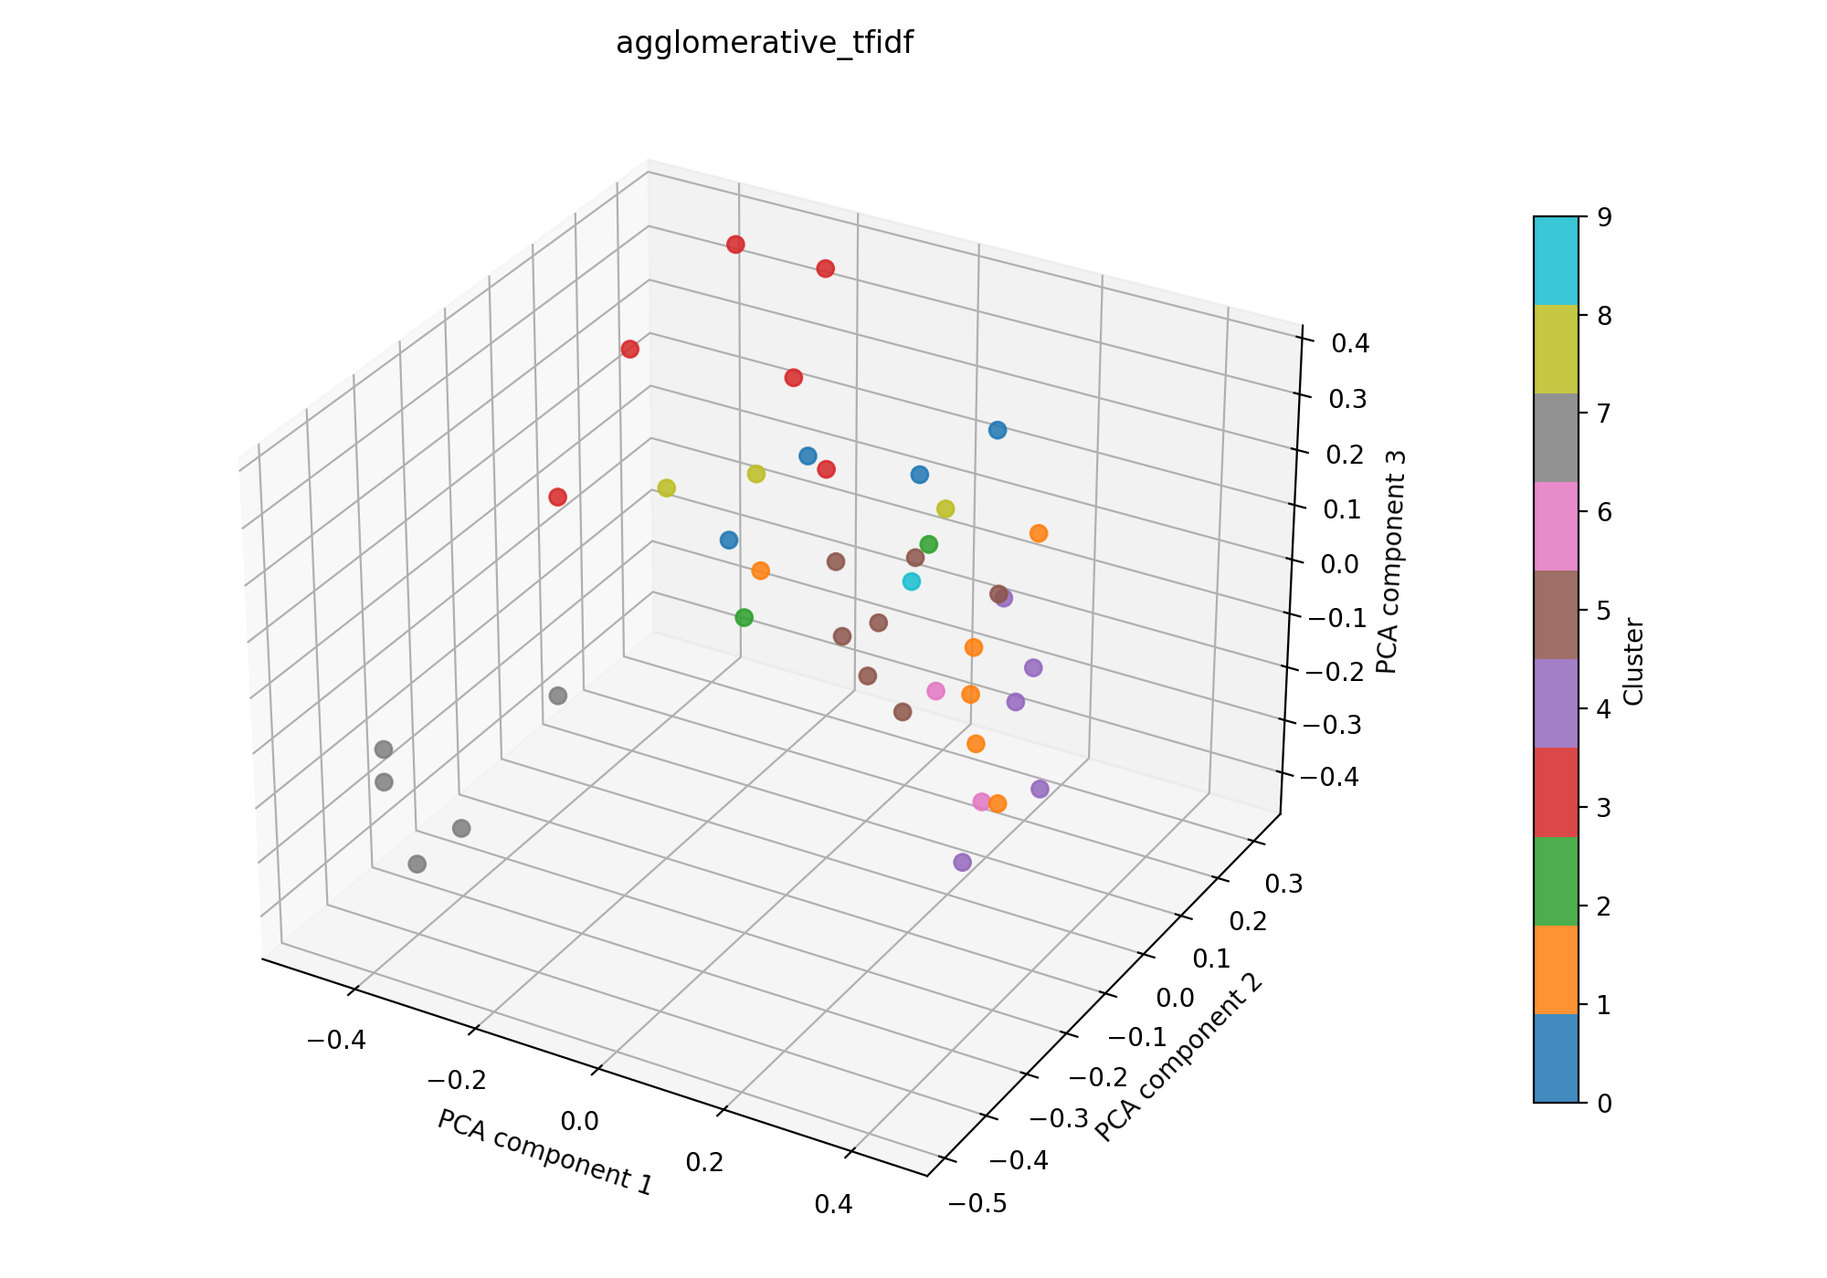
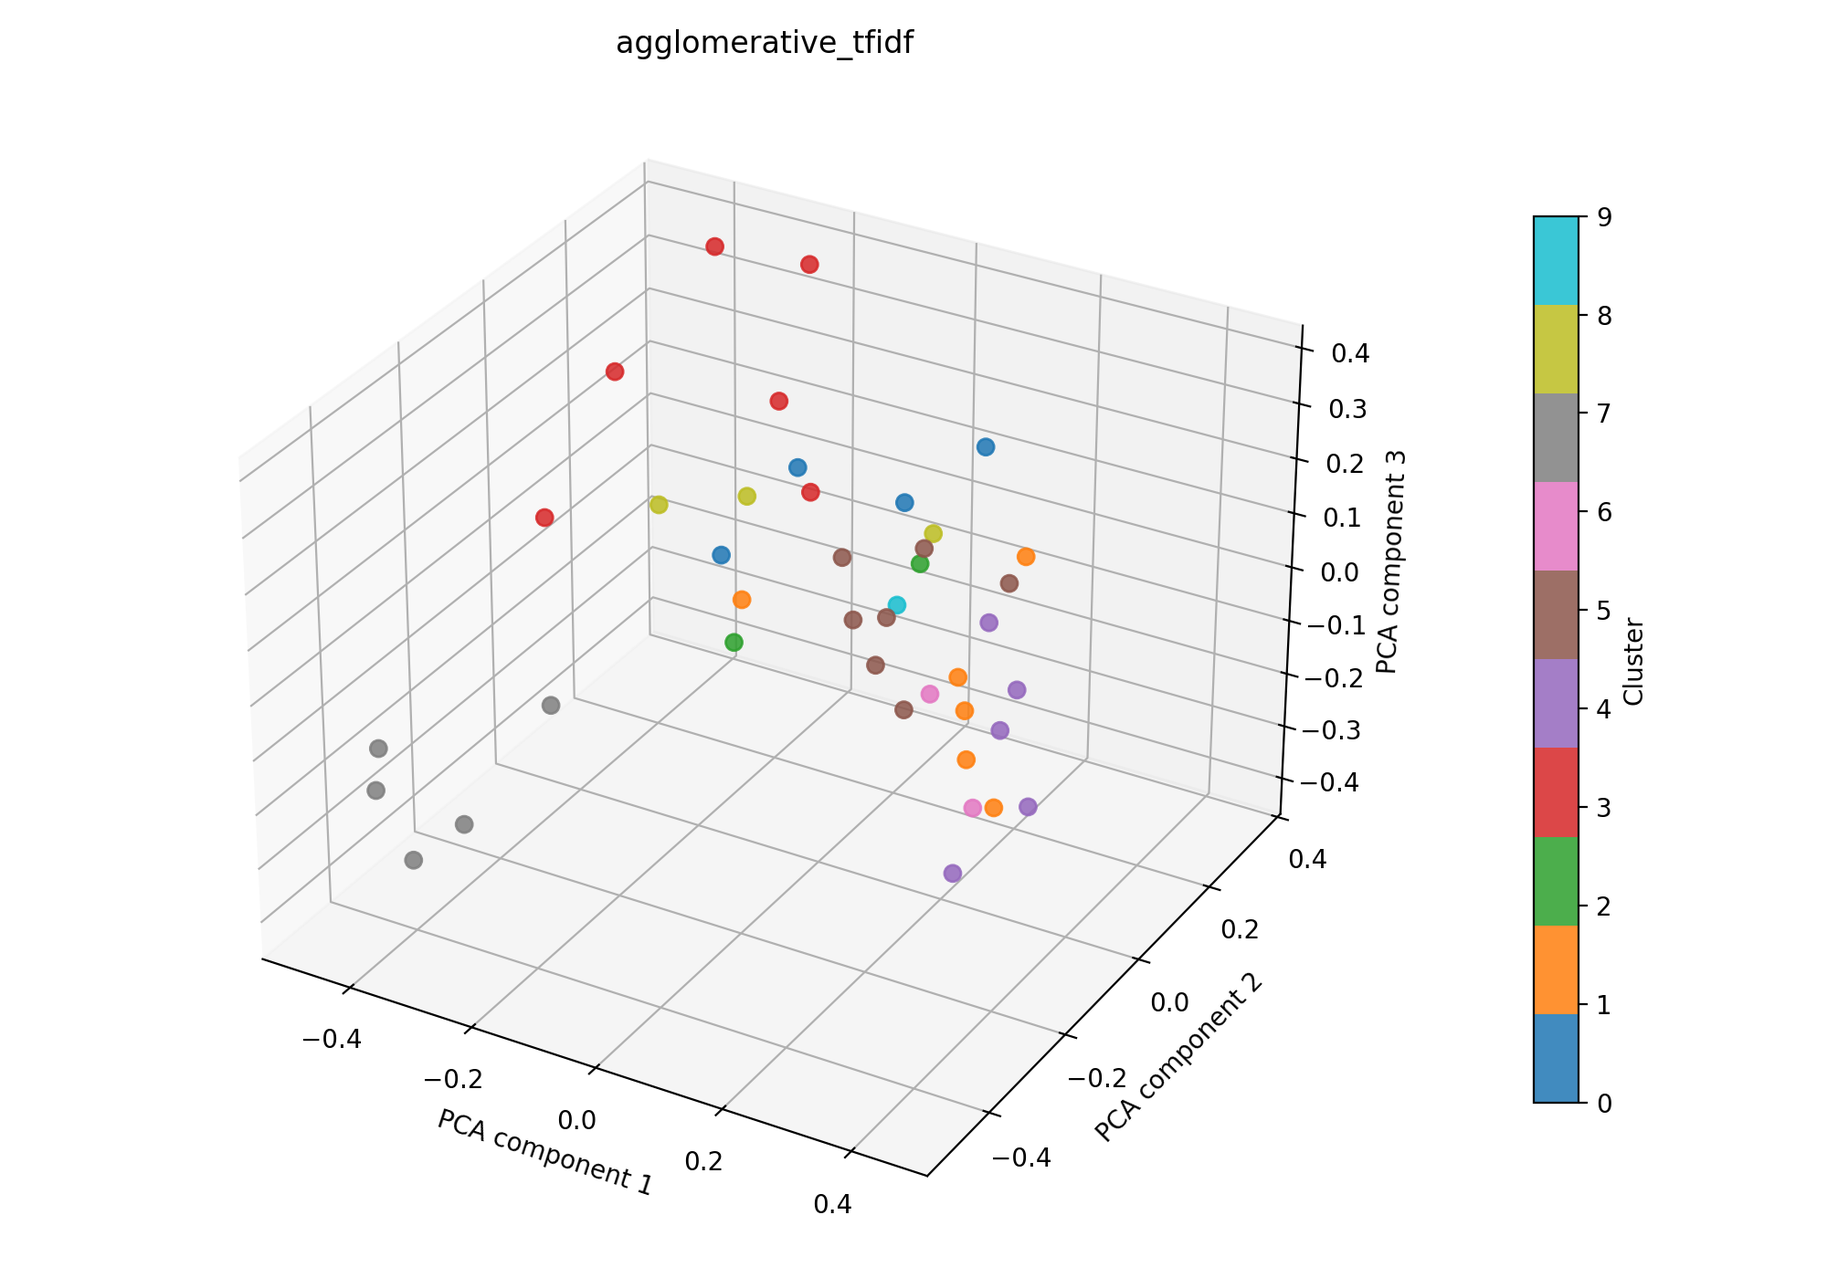
docs: updat e agglomeration und dbscan 41

diff --git a/experiments/agglomerative_tfidf/results_41/agglomerative_tfidf_pca.html b/experiments/agglomerative_tfidf/results_41/agglomerative_tfidf_pca.html
@@ -2,6 +2,6 @@
 <head><meta charset="utf-8" /></head>
 <body>
     <div>                        <script>window.PlotlyConfig = {MathJaxConfig: 'local'};</script>
-        <script charset="utf-8" src="https://cdn.plot.ly/plotly-3.4.0.min.js" integrity="sha256-KEmPoupLpFyGMyGAiOsiNDbKDKAvxXAn/W+oQa0ZAfk=" crossorigin="anonymous"></script>                <div id="db6fc630-6696-4915-b50a-3c877f6b4cdb" class="plotly-graph-div" style="height:100%; width:100%;"></div>            <script>                window.PLOTLYENV=window.PLOTLYENV || {};                                if (document.getElementById("db6fc630-6696-4915-b50a-3c877f6b4cdb")) {                    Plotly.newPlot(                        "db6fc630-6696-4915-b50a-3c877f6b4cdb",                        [{"marker":{"color":["#FFA15A","#AB63FA","#EF553B","#FFA15A","#AB63FA","#00CC96","#19D3F3","#FF97FF","#FFA15A","#FF6692","#EF553B","#FECB52","#AB63FA","#19D3F3","#636EFA","#FFA15A","#FF97FF","#19D3F3","#AB63FA","#FF97FF","#00CC96","#636EFA","#FF6692","#B6E880","#19D3F3","#AB63FA","#636EFA","#FFA15A","#19D3F3","#B6E880","#B6E880","#EF553B","#B6E880","#636EFA","#B6E880","#EF553B","#EF553B","#19D3F3","#AB63FA","#EF553B","#19D3F3"],"opacity":0.85,"size":6},"mode":"markers","x":{"dtype":"f4","bdata":"c\u002feJPmZiu77IPWo+DGcOPl+23b4is9A9jD+BPgbLVz2ipjI+t5c4PpS7oj6qsZY8CBPlvnVZij6xAl+8vzQpPthvHr4N8o0+s7RRvuWIeL5itgO+iNfCvVzKZT5EkqO+fIXlPh1XFb4wjw++7\u002f9cPjh5jD6\u002fofm+wunhvhyvdr5PRoS+zJT1Pd0Pxr6fyCc+xPS8PQJypj5d3VC+jmNPPq2eSD4="},"y":{"dtype":"f4","bdata":"lTwBPl0Qoj6LIcA7+EhuPoZUHj4YC8M92ZFNvh79Wz5WYFk+Em2zu70Cgr3P1zs+tbnJufIDv75knIA+IuSLPhGWaD0svqW+LjiaPnUF97ygqzy8it7APcNiPz0RUjq+jeKQvmZ5XT7Ezfi86k1UPIXilr5l1bS+UN\u002fRvq8IRj71bPe+iZJ0PqvH1L4gM5A+odFsPsVxk74dc2I+miWDPchejb4="},"z":{"dtype":"f4","bdata":"iQ2wvpD4sz5BO8y9Q\u002f3LvRIUcD6Aapo9vIdyPDXVTD2KFYq+q9vQvcqWZL6nZJq93ztVPcXkiD4kro89dbN+vkMRGD5ymiw+Fg25Pn1ZGT6KZ4G9JFI0PtsmqL4yPyG+gDKtPvOUez1wP7I9cPnXvk6udj5gDoS+7ocSvpOqEr5CPTK+pkZMPo4Lqr7iSjO7ki9Tvq\u002fDuj5iuFY+h690vjCcnj4="},"type":"scatter3d"}],                        {"template":{"data":{"histogram2dcontour":[{"type":"histogram2dcontour","colorbar":{"outlinewidth":0,"ticks":""},"colorscale":[[0.0,"#0d0887"],[0.1111111111111111,"#46039f"],[0.2222222222222222,"#7201a8"],[0.3333333333333333,"#9c179e"],[0.4444444444444444,"#bd3786"],[0.5555555555555556,"#d8576b"],[0.6666666666666666,"#ed7953"],[0.7777777777777778,"#fb9f3a"],[0.8888888888888888,"#fdca26"],[1.0,"#f0f921"]]}],"choropleth":[{"type":"choropleth","colorbar":{"outlinewidth":0,"ticks":""}}],"histogram2d":[{"type":"histogram2d","colorbar":{"outlinewidth":0,"ticks":""},"colorscale":[[0.0,"#0d0887"],[0.1111111111111111,"#46039f"],[0.2222222222222222,"#7201a8"],[0.3333333333333333,"#9c179e"],[0.4444444444444444,"#bd3786"],[0.5555555555555556,"#d8576b"],[0.6666666666666666,"#ed7953"],[0.7777777777777778,"#fb9f3a"],[0.8888888888888888,"#fdca26"],[1.0,"#f0f921"]]}],"heatmap":[{"type":"heatmap","colorbar":{"outlinewidth":0,"ticks":""},"colorscale":[[0.0,"#0d0887"],[0.1111111111111111,"#46039f"],[0.2222222222222222,"#7201a8"],[0.3333333333333333,"#9c179e"],[0.4444444444444444,"#bd3786"],[0.5555555555555556,"#d8576b"],[0.6666666666666666,"#ed7953"],[0.7777777777777778,"#fb9f3a"],[0.8888888888888888,"#fdca26"],[1.0,"#f0f921"]]}],"contourcarpet":[{"type":"contourcarpet","colorbar":{"outlinewidth":0,"ticks":""}}],"contour":[{"type":"contour","colorbar":{"outlinewidth":0,"ticks":""},"colorscale":[[0.0,"#0d0887"],[0.1111111111111111,"#46039f"],[0.2222222222222222,"#7201a8"],[0.3333333333333333,"#9c179e"],[0.4444444444444444,"#bd3786"],[0.5555555555555556,"#d8576b"],[0.6666666666666666,"#ed7953"],[0.7777777777777778,"#fb9f3a"],[0.8888888888888888,"#fdca26"],[1.0,"#f0f921"]]}],"surface":[{"type":"surface","colorbar":{"outlinewidth":0,"ticks":""},"colorscale":[[0.0,"#0d0887"],[0.1111111111111111,"#46039f"],[0.2222222222222222,"#7201a8"],[0.3333333333333333,"#9c179e"],[0.4444444444444444,"#bd3786"],[0.5555555555555556,"#d8576b"],[0.6666666666666666,"#ed7953"],[0.7777777777777778,"#fb9f3a"],[0.8888888888888888,"#fdca26"],[1.0,"#f0f921"]]}],"mesh3d":[{"type":"mesh3d","colorbar":{"outlinewidth":0,"ticks":""}}],"scatter":[{"fillpattern":{"fillmode":"overlay","size":10,"solidity":0.2},"type":"scatter"}],"parcoords":[{"type":"parcoords","line":{"colorbar":{"outlinewidth":0,"ticks":""}}}],"scatterpolargl":[{"type":"scatterpolargl","marker":{"colorbar":{"outlinewidth":0,"ticks":""}}}],"bar":[{"error_x":{"color":"#2a3f5f"},"error_y":{"color":"#2a3f5f"},"marker":{"line":{"color":"#E5ECF6","width":0.5},"pattern":{"fillmode":"overlay","size":10,"solidity":0.2}},"type":"bar"}],"scattergeo":[{"type":"scattergeo","marker":{"colorbar":{"outlinewidth":0,"ticks":""}}}],"scatterpolar":[{"type":"scatterpolar","marker":{"colorbar":{"outlinewidth":0,"ticks":""}}}],"histogram":[{"marker":{"pattern":{"fillmode":"overlay","size":10,"solidity":0.2}},"type":"histogram"}],"scattergl":[{"type":"scattergl","marker":{"colorbar":{"outlinewidth":0,"ticks":""}}}],"scatter3d":[{"type":"scatter3d","line":{"colorbar":{"outlinewidth":0,"ticks":""}},"marker":{"colorbar":{"outlinewidth":0,"ticks":""}}}],"scattermap":[{"type":"scattermap","marker":{"colorbar":{"outlinewidth":0,"ticks":""}}}],"scattermapbox":[{"type":"scattermapbox","marker":{"colorbar":{"outlinewidth":0,"ticks":""}}}],"scatterternary":[{"type":"scatterternary","marker":{"colorbar":{"outlinewidth":0,"ticks":""}}}],"scattercarpet":[{"type":"scattercarpet","marker":{"colorbar":{"outlinewidth":0,"ticks":""}}}],"carpet":[{"aaxis":{"endlinecolor":"#2a3f5f","gridcolor":"white","linecolor":"white","minorgridcolor":"white","startlinecolor":"#2a3f5f"},"baxis":{"endlinecolor":"#2a3f5f","gridcolor":"white","linecolor":"white","minorgridcolor":"white","startlinecolor":"#2a3f5f"},"type":"carpet"}],"table":[{"cells":{"fill":{"color":"#EBF0F8"},"line":{"color":"white"}},"header":{"fill":{"color":"#C8D4E3"},"line":{"color":"white"}},"type":"table"}],"barpolar":[{"marker":{"line":{"color":"#E5ECF6","width":0.5},"pattern":{"fillmode":"overlay","size":10,"solidity":0.2}},"type":"barpolar"}],"pie":[{"automargin":true,"type":"pie"}]},"layout":{"autotypenumbers":"strict","colorway":["#636efa","#EF553B","#00cc96","#ab63fa","#FFA15A","#19d3f3","#FF6692","#B6E880","#FF97FF","#FECB52"],"font":{"color":"#2a3f5f"},"hovermode":"closest","hoverlabel":{"align":"left"},"paper_bgcolor":"white","plot_bgcolor":"#E5ECF6","polar":{"bgcolor":"#E5ECF6","angularaxis":{"gridcolor":"white","linecolor":"white","ticks":""},"radialaxis":{"gridcolor":"white","linecolor":"white","ticks":""}},"ternary":{"bgcolor":"#E5ECF6","aaxis":{"gridcolor":"white","linecolor":"white","ticks":""},"baxis":{"gridcolor":"white","linecolor":"white","ticks":""},"caxis":{"gridcolor":"white","linecolor":"white","ticks":""}},"coloraxis":{"colorbar":{"outlinewidth":0,"ticks":""}},"colorscale":{"sequential":[[0.0,"#0d0887"],[0.1111111111111111,"#46039f"],[0.2222222222222222,"#7201a8"],[0.3333333333333333,"#9c179e"],[0.4444444444444444,"#bd3786"],[0.5555555555555556,"#d8576b"],[0.6666666666666666,"#ed7953"],[0.7777777777777778,"#fb9f3a"],[0.8888888888888888,"#fdca26"],[1.0,"#f0f921"]],"sequentialminus":[[0.0,"#0d0887"],[0.1111111111111111,"#46039f"],[0.2222222222222222,"#7201a8"],[0.3333333333333333,"#9c179e"],[0.4444444444444444,"#bd3786"],[0.5555555555555556,"#d8576b"],[0.6666666666666666,"#ed7953"],[0.7777777777777778,"#fb9f3a"],[0.8888888888888888,"#fdca26"],[1.0,"#f0f921"]],"diverging":[[0,"#8e0152"],[0.1,"#c51b7d"],[0.2,"#de77ae"],[0.3,"#f1b6da"],[0.4,"#fde0ef"],[0.5,"#f7f7f7"],[0.6,"#e6f5d0"],[0.7,"#b8e186"],[0.8,"#7fbc41"],[0.9,"#4d9221"],[1,"#276419"]]},"xaxis":{"gridcolor":"white","linecolor":"white","ticks":"","title":{"standoff":15},"zerolinecolor":"white","automargin":true,"zerolinewidth":2},"yaxis":{"gridcolor":"white","linecolor":"white","ticks":"","title":{"standoff":15},"zerolinecolor":"white","automargin":true,"zerolinewidth":2},"scene":{"xaxis":{"backgroundcolor":"#E5ECF6","gridcolor":"white","linecolor":"white","showbackground":true,"ticks":"","zerolinecolor":"white","gridwidth":2},"yaxis":{"backgroundcolor":"#E5ECF6","gridcolor":"white","linecolor":"white","showbackground":true,"ticks":"","zerolinecolor":"white","gridwidth":2},"zaxis":{"backgroundcolor":"#E5ECF6","gridcolor":"white","linecolor":"white","showbackground":true,"ticks":"","zerolinecolor":"white","gridwidth":2}},"shapedefaults":{"line":{"color":"#2a3f5f"}},"annotationdefaults":{"arrowcolor":"#2a3f5f","arrowhead":0,"arrowwidth":1},"geo":{"bgcolor":"white","landcolor":"#E5ECF6","subunitcolor":"white","showland":true,"showlakes":true,"lakecolor":"white"},"title":{"x":0.05},"mapbox":{"style":"light"}}},"title":{"text":"agglomerative_tfidf"}},                        {"responsive": true}                    )                };            </script>        </div>
[1 lines of base64/hex data omitted]
 </body>
 </html>

diff --git a/experiments/dbscan_tfidf/results_41/dbscan_tfidf_pca.html b/experiments/dbscan_tfidf/results_41/dbscan_tfidf_pca.html
@@ -2,6 +2,6 @@
 <head><meta charset="utf-8" /></head>
 <body>
     <div>                        <script>window.PlotlyConfig = {MathJaxConfig: 'local'};</script>
-        <script charset="utf-8" src="https://cdn.plot.ly/plotly-3.4.0.min.js" integrity="sha256-KEmPoupLpFyGMyGAiOsiNDbKDKAvxXAn/W+oQa0ZAfk=" crossorigin="anonymous"></script>                <div id="e290cb47-7c95-4cb9-8534-c3cd36922ef7" class="plotly-graph-div" style="height:100%; width:100%;"></div>            <script>                window.PLOTLYENV=window.PLOTLYENV || {};                                if (document.getElementById("e290cb47-7c95-4cb9-8534-c3cd36922ef7")) {                    Plotly.newPlot(                        "e290cb47-7c95-4cb9-8534-c3cd36922ef7",                        [{"marker":{"color":["#EF553B","#EF553B","#EF553B","#EF553B","#EF553B","#EF553B","#EF553B","#EF553B","#EF553B","#EF553B","#EF553B","#AAAAAA","#EF553B","#EF553B","#EF553B","#EF553B","#EF553B","#EF553B","#EF553B","#EF553B","#AAAAAA","#EF553B","#EF553B","#EF553B","#EF553B","#EF553B","#EF553B","#EF553B","#EF553B","#EF553B","#EF553B","#EF553B","#EF553B","#EF553B","#EF553B","#EF553B","#EF553B","#EF553B","#EF553B","#EF553B","#EF553B"],"opacity":0.85,"size":6},"mode":"markers","x":{"dtype":"f4","bdata":"c\u002feJPmZiu77IPWo+DGcOPl+23b4is9A9jD+BPgbLVz2ipjI+t5c4PpS7oj6qsZY8CBPlvnVZij6xAl+8vzQpPthvHr4N8o0+s7RRvuWIeL5itgO+iNfCvVzKZT5EkqO+fIXlPh1XFb4wjw++7\u002f9cPjh5jD6\u002fofm+wunhvhyvdr5PRoS+zJT1Pd0Pxr6fyCc+xPS8PQJypj5d3VC+jmNPPq2eSD4="},"y":{"dtype":"f4","bdata":"lTwBPl0Qoj6LIcA7+EhuPoZUHj4YC8M92ZFNvh79Wz5WYFk+Em2zu70Cgr3P1zs+tbnJufIDv75knIA+IuSLPhGWaD0svqW+LjiaPnUF97ygqzy8it7APcNiPz0RUjq+jeKQvmZ5XT7Ezfi86k1UPIXilr5l1bS+UN\u002fRvq8IRj71bPe+iZJ0PqvH1L4gM5A+odFsPsVxk74dc2I+miWDPchejb4="},"z":{"dtype":"f4","bdata":"iQ2wvpD4sz5BO8y9Q\u002f3LvRIUcD6Aapo9vIdyPDXVTD2KFYq+q9vQvcqWZL6nZJq93ztVPcXkiD4kro89dbN+vkMRGD5ymiw+Fg25Pn1ZGT6KZ4G9JFI0PtsmqL4yPyG+gDKtPvOUez1wP7I9cPnXvk6udj5gDoS+7ocSvpOqEr5CPTK+pkZMPo4Lqr7iSjO7ki9Tvq\u002fDuj5iuFY+h690vjCcnj4="},"type":"scatter3d"}],                        {"template":{"data":{"histogram2dcontour":[{"type":"histogram2dcontour","colorbar":{"outlinewidth":0,"ticks":""},"colorscale":[[0.0,"#0d0887"],[0.1111111111111111,"#46039f"],[0.2222222222222222,"#7201a8"],[0.3333333333333333,"#9c179e"],[0.4444444444444444,"#bd3786"],[0.5555555555555556,"#d8576b"],[0.6666666666666666,"#ed7953"],[0.7777777777777778,"#fb9f3a"],[0.8888888888888888,"#fdca26"],[1.0,"#f0f921"]]}],"choropleth":[{"type":"choropleth","colorbar":{"outlinewidth":0,"ticks":""}}],"histogram2d":[{"type":"histogram2d","colorbar":{"outlinewidth":0,"ticks":""},"colorscale":[[0.0,"#0d0887"],[0.1111111111111111,"#46039f"],[0.2222222222222222,"#7201a8"],[0.3333333333333333,"#9c179e"],[0.4444444444444444,"#bd3786"],[0.5555555555555556,"#d8576b"],[0.6666666666666666,"#ed7953"],[0.7777777777777778,"#fb9f3a"],[0.8888888888888888,"#fdca26"],[1.0,"#f0f921"]]}],"heatmap":[{"type":"heatmap","colorbar":{"outlinewidth":0,"ticks":""},"colorscale":[[0.0,"#0d0887"],[0.1111111111111111,"#46039f"],[0.2222222222222222,"#7201a8"],[0.3333333333333333,"#9c179e"],[0.4444444444444444,"#bd3786"],[0.5555555555555556,"#d8576b"],[0.6666666666666666,"#ed7953"],[0.7777777777777778,"#fb9f3a"],[0.8888888888888888,"#fdca26"],[1.0,"#f0f921"]]}],"contourcarpet":[{"type":"contourcarpet","colorbar":{"outlinewidth":0,"ticks":""}}],"contour":[{"type":"contour","colorbar":{"outlinewidth":0,"ticks":""},"colorscale":[[0.0,"#0d0887"],[0.1111111111111111,"#46039f"],[0.2222222222222222,"#7201a8"],[0.3333333333333333,"#9c179e"],[0.4444444444444444,"#bd3786"],[0.5555555555555556,"#d8576b"],[0.6666666666666666,"#ed7953"],[0.7777777777777778,"#fb9f3a"],[0.8888888888888888,"#fdca26"],[1.0,"#f0f921"]]}],"surface":[{"type":"surface","colorbar":{"outlinewidth":0,"ticks":""},"colorscale":[[0.0,"#0d0887"],[0.1111111111111111,"#46039f"],[0.2222222222222222,"#7201a8"],[0.3333333333333333,"#9c179e"],[0.4444444444444444,"#bd3786"],[0.5555555555555556,"#d8576b"],[0.6666666666666666,"#ed7953"],[0.7777777777777778,"#fb9f3a"],[0.8888888888888888,"#fdca26"],[1.0,"#f0f921"]]}],"mesh3d":[{"type":"mesh3d","colorbar":{"outlinewidth":0,"ticks":""}}],"scatter":[{"fillpattern":{"fillmode":"overlay","size":10,"solidity":0.2},"type":"scatter"}],"parcoords":[{"type":"parcoords","line":{"colorbar":{"outlinewidth":0,"ticks":""}}}],"scatterpolargl":[{"type":"scatterpolargl","marker":{"colorbar":{"outlinewidth":0,"ticks":""}}}],"bar":[{"error_x":{"color":"#2a3f5f"},"error_y":{"color":"#2a3f5f"},"marker":{"line":{"color":"#E5ECF6","width":0.5},"pattern":{"fillmode":"overlay","size":10,"solidity":0.2}},"type":"bar"}],"scattergeo":[{"type":"scattergeo","marker":{"colorbar":{"outlinewidth":0,"ticks":""}}}],"scatterpolar":[{"type":"scatterpolar","marker":{"colorbar":{"outlinewidth":0,"ticks":""}}}],"histogram":[{"marker":{"pattern":{"fillmode":"overlay","size":10,"solidity":0.2}},"type":"histogram"}],"scattergl":[{"type":"scattergl","marker":{"colorbar":{"outlinewidth":0,"ticks":""}}}],"scatter3d":[{"type":"scatter3d","line":{"colorbar":{"outlinewidth":0,"ticks":""}},"marker":{"colorbar":{"outlinewidth":0,"ticks":""}}}],"scattermap":[{"type":"scattermap","marker":{"colorbar":{"outlinewidth":0,"ticks":""}}}],"scattermapbox":[{"type":"scattermapbox","marker":{"colorbar":{"outlinewidth":0,"ticks":""}}}],"scatterternary":[{"type":"scatterternary","marker":{"colorbar":{"outlinewidth":0,"ticks":""}}}],"scattercarpet":[{"type":"scattercarpet","marker":{"colorbar":{"outlinewidth":0,"ticks":""}}}],"carpet":[{"aaxis":{"endlinecolor":"#2a3f5f","gridcolor":"white","linecolor":"white","minorgridcolor":"white","startlinecolor":"#2a3f5f"},"baxis":{"endlinecolor":"#2a3f5f","gridcolor":"white","linecolor":"white","minorgridcolor":"white","startlinecolor":"#2a3f5f"},"type":"carpet"}],"table":[{"cells":{"fill":{"color":"#EBF0F8"},"line":{"color":"white"}},"header":{"fill":{"color":"#C8D4E3"},"line":{"color":"white"}},"type":"table"}],"barpolar":[{"marker":{"line":{"color":"#E5ECF6","width":0.5},"pattern":{"fillmode":"overlay","size":10,"solidity":0.2}},"type":"barpolar"}],"pie":[{"automargin":true,"type":"pie"}]},"layout":{"autotypenumbers":"strict","colorway":["#636efa","#EF553B","#00cc96","#ab63fa","#FFA15A","#19d3f3","#FF6692","#B6E880","#FF97FF","#FECB52"],"font":{"color":"#2a3f5f"},"hovermode":"closest","hoverlabel":{"align":"left"},"paper_bgcolor":"white","plot_bgcolor":"#E5ECF6","polar":{"bgcolor":"#E5ECF6","angularaxis":{"gridcolor":"white","linecolor":"white","ticks":""},"radialaxis":{"gridcolor":"white","linecolor":"white","ticks":""}},"ternary":{"bgcolor":"#E5ECF6","aaxis":{"gridcolor":"white","linecolor":"white","ticks":""},"baxis":{"gridcolor":"white","linecolor":"white","ticks":""},"caxis":{"gridcolor":"white","linecolor":"white","ticks":""}},"coloraxis":{"colorbar":{"outlinewidth":0,"ticks":""}},"colorscale":{"sequential":[[0.0,"#0d0887"],[0.1111111111111111,"#46039f"],[0.2222222222222222,"#7201a8"],[0.3333333333333333,"#9c179e"],[0.4444444444444444,"#bd3786"],[0.5555555555555556,"#d8576b"],[0.6666666666666666,"#ed7953"],[0.7777777777777778,"#fb9f3a"],[0.8888888888888888,"#fdca26"],[1.0,"#f0f921"]],"sequentialminus":[[0.0,"#0d0887"],[0.1111111111111111,"#46039f"],[0.2222222222222222,"#7201a8"],[0.3333333333333333,"#9c179e"],[0.4444444444444444,"#bd3786"],[0.5555555555555556,"#d8576b"],[0.6666666666666666,"#ed7953"],[0.7777777777777778,"#fb9f3a"],[0.8888888888888888,"#fdca26"],[1.0,"#f0f921"]],"diverging":[[0,"#8e0152"],[0.1,"#c51b7d"],[0.2,"#de77ae"],[0.3,"#f1b6da"],[0.4,"#fde0ef"],[0.5,"#f7f7f7"],[0.6,"#e6f5d0"],[0.7,"#b8e186"],[0.8,"#7fbc41"],[0.9,"#4d9221"],[1,"#276419"]]},"xaxis":{"gridcolor":"white","linecolor":"white","ticks":"","title":{"standoff":15},"zerolinecolor":"white","automargin":true,"zerolinewidth":2},"yaxis":{"gridcolor":"white","linecolor":"white","ticks":"","title":{"standoff":15},"zerolinecolor":"white","automargin":true,"zerolinewidth":2},"scene":{"xaxis":{"backgroundcolor":"#E5ECF6","gridcolor":"white","linecolor":"white","showbackground":true,"ticks":"","zerolinecolor":"white","gridwidth":2},"yaxis":{"backgroundcolor":"#E5ECF6","gridcolor":"white","linecolor":"white","showbackground":true,"ticks":"","zerolinecolor":"white","gridwidth":2},"zaxis":{"backgroundcolor":"#E5ECF6","gridcolor":"white","linecolor":"white","showbackground":true,"ticks":"","zerolinecolor":"white","gridwidth":2}},"shapedefaults":{"line":{"color":"#2a3f5f"}},"annotationdefaults":{"arrowcolor":"#2a3f5f","arrowhead":0,"arrowwidth":1},"geo":{"bgcolor":"white","landcolor":"#E5ECF6","subunitcolor":"white","showland":true,"showlakes":true,"lakecolor":"white"},"title":{"x":0.05},"mapbox":{"style":"light"}}},"title":{"text":"dbscan_tfidf"}},                        {"responsive": true}                    )                };            </script>        </div>
[1 lines of base64/hex data omitted]
 </body>
 </html>

diff --git a/experiments/agglomerative_tfidf/results_41/agglomerative_tfidf_41.md b/experiments/agglomerative_tfidf/results_41/agglomerative_tfidf_41.md
@@ -35,7 +35,7 @@ tfidf:
   stop_words: english
   extra_stop_words: ["hsi"]
   use_lsa: true
-  lsa_components: 100
+  lsa_components: 40
 
 interpretation:
   top_n_terms: 10
@@ -72,9 +72,9 @@ Die Metriken werden in `best_agglomerative_tfidf_summary.json` gespeichert. Für
 
 | Metrik | Wert | Einordnung |
 | --- | ---: | --- |
-| Silhouette Score | 0.14020588994026184 | schwache bis mäßige Trennung (leichte interne Struktur erkennbar) |
-| Davies–Bouldin Index | 1.8421871790100686 | mittlere Überlappung der Cluster |
-| Calinski–Harabasz Index | 2.1347662569929904 | insgesamt schwache Clusterstruktur (relativ niedrig) |
+| Silhouette Score | 0.14200261235237122 | schwache bis mäßige Trennung (leichte interne Struktur erkennbar) |
+| Davies–Bouldin Index | 1.8365325829568917 | mittlere Überlappung der Cluster |
+| Calinski–Harabasz Index | 2.148901278585822 | schwächere Clusterstruktur (relativ niedrig) |
 
 #### Cluster-Interpretation
 

diff --git a/experiments/dbscan_tfidf/results_41/dbscan_tfidf_41.md b/experiments/dbscan_tfidf/results_41/dbscan_tfidf_41.md
@@ -36,7 +36,7 @@ tfidf:
   stop_words: english
   extra_stop_words: ["hsi"]
   use_lsa: true
-  lsa_components: 100
+  lsa_components: 40
 
 interpretation:
   top_n_terms: 10
@@ -73,9 +73,9 @@ Die Metriken werden in `best_dbscan_tfidf_summary.json` gespeichert. Für das ak
 
 | Metrik | Wert | Einordnung |
 | --- | ---: | --- |
-| Silhouette Score | 0.04853330925107002 | Cluster kaum getrennt |
-| Davies–Bouldin Index | 2.1547427614491355 | mittlere Überlappung zwischen den Clustern |
-| Calinski–Harabasz Index | 1.1843962957162295 | schwache Clusterstruktur |
+| Silhouette Score | 0.04912794381380081 | Cluster kaum getrennt |
+| Davies–Bouldin Index | 2.152774204441197 | mittlere Überlappung zwischen den Clustern |
+| Calinski–Harabasz Index | 1.1866975846121282 | schwache Clusterstruktur |
 
 ### Cluster-Interpretation
 
